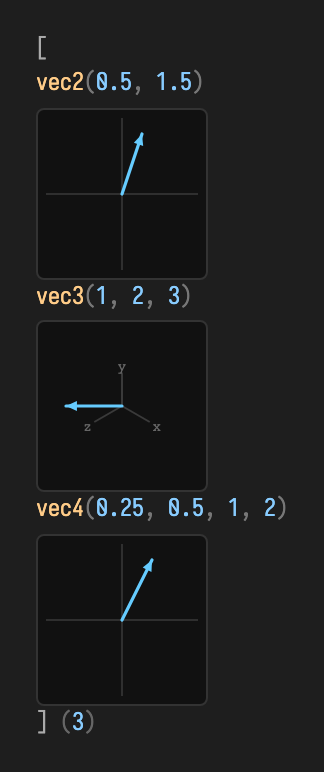
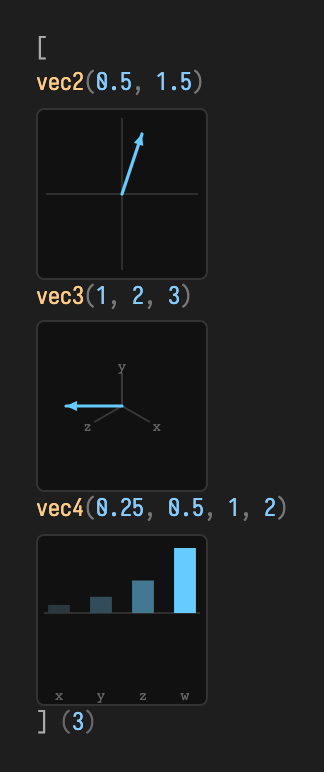
fix(visualization): `.h` on a vec4 shows all four components
`formatVec4` drew the `(x, y)` arrow and dropped `z` and `w`, with a comment
saying so — a 2D picture of a 4D value. It reads as plausible, which is why
it survived: a vec4 very often packs four unrelated numbers for a shader, and
an arrow through the first two of them is not a summary of that, it is a
different value.

Four numbers have no faithful arrow, so they render as four numbers: signed
bars from a shared zero line, labelled x/y/z/w, sharing one scale so relative
magnitude is readable. Colour comes from `matrixCellColor` — the diverging
ramp the matrix grids already use — because this is the same question about
the same kind of value. A non-finite component gets that helper's distinct
cell instead of a bar of NaN height; an all-non-finite vec4 falls back to
text with no panel.

The test is why this lasted. It asserted only that `"vec4"` and `"<svg"`
appeared, which an arrow of the wrong two components satisfies. It now pins a
labelled bar per component, both ends of the sign ramp, and the absence of an
arrowhead.

`assets/value_visualizers/vectors.png` regenerates from the real visualizer
through the existing docs-capture harness; vec2 and vec3 are untouched.

Alongside: a keyframe-browser band that cannot be brushed now says why on
hover — either one key holds the slot, or every key agrees on the value. The
refusal was correct and silent, which is indistinguishable from broken.

Changed region(s): [[0.1235, 0.6839, 0.6173, 0.9016]]

diff --git a/src/jvmMain/kotlin/afield/visualization/ValueVisualizer.kt b/src/jvmMain/kotlin/afield/visualization/ValueVisualizer.kt
@@ -1306,9 +1306,67 @@ object ValueVisualizer {
             append(formatNumericLiteral(v.w()))
             append(formatPunctuation(")"))
         }
-        // The dominant payload is the text; the panel just draws the (x, y) arrow.
         return withLinalgThumbnail(text, VEC_THUMBNAIL_SIZE, VEC_THUMBNAIL_SIZE) {
-            renderVec2Thumbnail(v.x(), v.y())
+            renderVec4Thumbnail(v.x(), v.y(), v.z(), v.w())
+        }
+    }
+
+    /**
+     * A `vec4` as four signed bars from a shared zero line, labelled `x`/`y`/`z`/`w`.
+     *
+     * It used to draw the `(x, y)` arrow and nothing else — the panel showed a 2D vector for a 4D
+     * value and dropped `z` and `w` without saying so, which is a picture that is simply wrong for
+     * the common case of four numbers packed together for a shader. Four numbers have no faithful
+     * arrow, so this shows them as four numbers.
+     *
+     * Bars share one scale (the largest magnitude), so relative size is readable across components,
+     * and they take their colour from [matrixCellColor] — the same diverging positive/negative ramp
+     * the matrix grids use, since this is the same question about the same kind of value. A
+     * non-finite component gets that helper's distinct dark-red cell rather than a bar of NaN
+     * height. Returns null when every component is non-finite, which [withLinalgThumbnail] reads as
+     * "text only".
+     */
+    private fun renderVec4Thumbnail(x: Float, y: Float, z: Float, w: Float): String? {
+        val comps = listOf("x" to x, "y" to y, "z" to z, "w" to w)
+        if (comps.none { it.second.isFinite() }) return null
+
+        val size = VEC_THUMBNAIL_SIZE.toDouble()
+        val maxAbs = comps.mapNotNull { (_, c) -> c.takeIf { it.isFinite() }?.let { abs(it.toDouble()) } }
+            .maxOrNull() ?: 0.0
+        val labelBand = 11.0
+        val plotTop = 4.0
+        val plotBottom = size - labelBand
+        val zero = (plotTop + plotBottom) / 2.0
+        val halfHeight = (plotBottom - zero) - 2.0
+        val slot = size / comps.size
+        val barWidth = slot * 0.52
+
+        return buildString {
+            append(svgOpen(VEC_THUMBNAIL_SIZE, VEC_THUMBNAIL_SIZE))
+            appendAxis(this, 3.0, zero, size - 3.0, zero)
+            comps.forEachIndexed { i, (label, value) ->
+                val cx = slot * (i + 0.5)
+                val left = cx - barWidth / 2.0
+                if (!value.isFinite()) {
+                    append(
+                        "<rect x='${plotNum(left)}' y='${plotNum(zero - 3.0)}' width='${plotNum(barWidth)}' " +
+                            "height='6' fill='${matrixCellColor(value, maxAbs)}'/>"
+                    )
+                } else {
+                    val t = if (maxAbs > 0.0) abs(value.toDouble()) / maxAbs else 0.0
+                    val h = (t * halfHeight).coerceAtLeast(if (value == 0f) 0.0 else 1.0)
+                    val top = if (value >= 0f) zero - h else zero
+                    append(
+                        "<rect x='${plotNum(left)}' y='${plotNum(top)}' width='${plotNum(barWidth)}' " +
+                            "height='${plotNum(h)}' fill='${matrixCellColor(value, maxAbs)}'/>"
+                    )
+                }
+                append(
+                    "<text x='${plotNum(cx)}' y='${plotNum(size - 2.0)}' fill='#666' font-size='7' " +
+                        "font-family='monospace' text-anchor='middle'>$label</text>"
+                )
+            }
+            append("</svg>")
         }
     }
 

diff --git a/src/jvmTest/kotlin/afield/LinalgThumbnailVisualizerTest.kt b/src/jvmTest/kotlin/afield/LinalgThumbnailVisualizerTest.kt
@@ -38,11 +38,43 @@ class LinalgThumbnailVisualizerTest {
         assertTrue(">x<" in html && ">y<" in html && ">z<" in html, "expected x/y/z axis labels")
     }
 
+    /**
+     * A vec4's panel has to account for all four components.
+     *
+     * This test used to assert only that *some* SVG appeared, which is how `formatVec4` came to draw
+     * the `(x, y)` arrow and silently drop `z` and `w` — a 2D picture of a 4D value, with a passing
+     * test over it. So the assertions are now about the four components specifically: a labelled bar
+     * each, and the diverging sign colours the matrix grids already use.
+     */
     @Test
-    fun `vec4 draws the xy panel beneath its text`() {
+    fun `vec4 draws a labelled signed bar for every component`() {
         val html = visualize(Vector4f(1f, 0f, -1f, 0.5f))
         assertTrue("vec4" in html, "expected the vec4 text head")
         assertTrue("<svg" in html, "expected an appended SVG thumbnail")
+        listOf("x", "y", "z", "w").forEach {
+            assertTrue(">$it<" in html, "expected a `$it` axis label — all four components are shown")
+        }
+        assertTrue(Regex("<rect").findAll(html).count() >= 4, "expected one bar per component")
+        // 1f is positive and -1f negative at the same magnitude, so both ends of the ramp appear.
+        assertTrue("#66ccff" in html, "expected the positive end of the diverging ramp for x = 1")
+        assertTrue("#f88833" in html, "expected the negative end of the ramp for z = -1")
+        assertFalse("<polygon" in html, "a vec4 is not an arrow; that was the bug")
+    }
+
+    /** Every component non-finite leaves the text alone rather than drawing an empty frame. */
+    @Test
+    fun `an all-NaN vec4 falls back to text only`() {
+        val html = visualize(Vector4f(Float.NaN, Float.NaN, Float.NaN, Float.NaN))
+        assertTrue("vec4" in html, "expected the vec4 text head")
+        assertFalse("<svg" in html, "nothing to draw, so no panel")
+    }
+
+    /** One bad component still draws the others. */
+    @Test
+    fun `a partly NaN vec4 still draws the finite components`() {
+        val html = visualize(Vector4f(2f, Float.NaN, -3f, 1f))
+        assertTrue("<svg" in html, "expected a panel for the three finite components")
+        assertTrue("#4a3030" in html, "expected the non-finite cell colour for y")
     }
 
     @Test

diff --git a/src/commonMain/resources/keyframe_browser.html b/src/commonMain/resources/keyframe_browser.html
@@ -747,8 +747,16 @@ keyframeBrowser("looks", scope = myScope)</pre>
             const l = Math.min(brush.a, brush.b), w = Math.abs(brush.b - brush.a);
             brushEl = `<span class="kb-brush" style="left:${(l * 100).toFixed(2)}%;width:${(w * 100).toFixed(2)}%"></span>`;
         }
+        // A band whose values are all equal cannot be brushed — any interval selects everything —
+        // so it says so on hover rather than just failing to respond to a drag.
         const brushable = !degenerate && fileIds && fileIds.length > 1;
+        const why = brushable
+            ? `drag to keep only the keys inside`
+            : (fileIds && fileIds.length < 2
+                ? `only ${fileIds ? fileIds.length : 0} key has this slot — nothing to brush`
+                : `every key has ${band.label} = ${fmt(band.lo)} — nothing to brush`);
         return `<span class="kb-strip${brushable ? " kb-brushable" : ""}"` +
+            ` title="${esc(band.label + ": " + why)}"` +
             ` data-slot="${esc(slotName)}" data-band="${bandIndex}">${fill}${label}${brushEl}${marks}</span>`;
     }
 

diff --git a/public/docs/reference/visualization.md b/public/docs/reference/visualization.md
@@ -1022,14 +1022,14 @@ only ever rendered if someone asks for it.
 
 | Declaration | Summary |
 | --- | --- |
-| [<code class="highlight"><span class="k">fun</span> <span class="nc">Box</span><span class="p">.</span><span class="nf">viz</span><span class="p">(</span><span class="n">channel</span><span class="p">:</span> <span class="nc">String</span> <span class="o">=</span> <span class="s">&quot;viz&quot;</span><span class="p">,</span> <span class="k">value</span><span class="p">:</span> <span class="nc">Any</span><span class="o">?</span><span class="p">)</span></code>](source/jvmMain/afield/visualization/ValueVisualizer/#L2586) | Extension function to visualize a value in a Box's display output |
-| [<code class="highlight"><span class="k">inline</span> <span class="k">fun</span> <span class="p">&lt;</span><span class="k">reified</span> <span class="nc">T</span> <span class="p">:</span> <span class="nc">Any</span><span class="p">&gt;</span> <span class="nf">registerValuePrinter</span><span class="p">(</span><span class="k">noinline</span> <span class="n">printer</span><span class="p">:</span> <span class="p">(</span><span class="nc">T</span><span class="p">)</span> <span class="o">-&gt;</span> <span class="nc">String</span><span class="p">)</span></code>](source/jvmMain/afield/visualization/ValueVisualizer/#L2596) | Register a custom printer for a type |
+| [<code class="highlight"><span class="k">fun</span> <span class="nc">Box</span><span class="p">.</span><span class="nf">viz</span><span class="p">(</span><span class="n">channel</span><span class="p">:</span> <span class="nc">String</span> <span class="o">=</span> <span class="s">&quot;viz&quot;</span><span class="p">,</span> <span class="k">value</span><span class="p">:</span> <span class="nc">Any</span><span class="o">?</span><span class="p">)</span></code>](source/jvmMain/afield/visualization/ValueVisualizer/#L2644) | Extension function to visualize a value in a Box's display output |
+| [<code class="highlight"><span class="k">inline</span> <span class="k">fun</span> <span class="p">&lt;</span><span class="k">reified</span> <span class="nc">T</span> <span class="p">:</span> <span class="nc">Any</span><span class="p">&gt;</span> <span class="nf">registerValuePrinter</span><span class="p">(</span><span class="k">noinline</span> <span class="n">printer</span><span class="p">:</span> <span class="p">(</span><span class="nc">T</span><span class="p">)</span> <span class="o">-&gt;</span> <span class="nc">String</span><span class="p">)</span></code>](source/jvmMain/afield/visualization/ValueVisualizer/#L2654) | Register a custom printer for a type |
 
 ### Top-level values { #valuevisualizer-kt-values }
 
 | Declaration | Summary |
 | --- | --- |
-| [<code class="highlight"><span class="k">val</span> <span class="nc">Any</span><span class="o">?</span><span class="p">.</span><span class="n">h</span> <span class="p">:</span> <span class="nc">String</span></code>](source/jvmMain/afield/visualization/ValueVisualizer/#L2590) |  |
+| [<code class="highlight"><span class="k">val</span> <span class="nc">Any</span><span class="o">?</span><span class="p">.</span><span class="n">h</span> <span class="p">:</span> <span class="nc">String</span></code>](source/jvmMain/afield/visualization/ValueVisualizer/#L2648) |  |
 
 ### ToHTML { #valuevisualizer-kt-tohtml }
 
